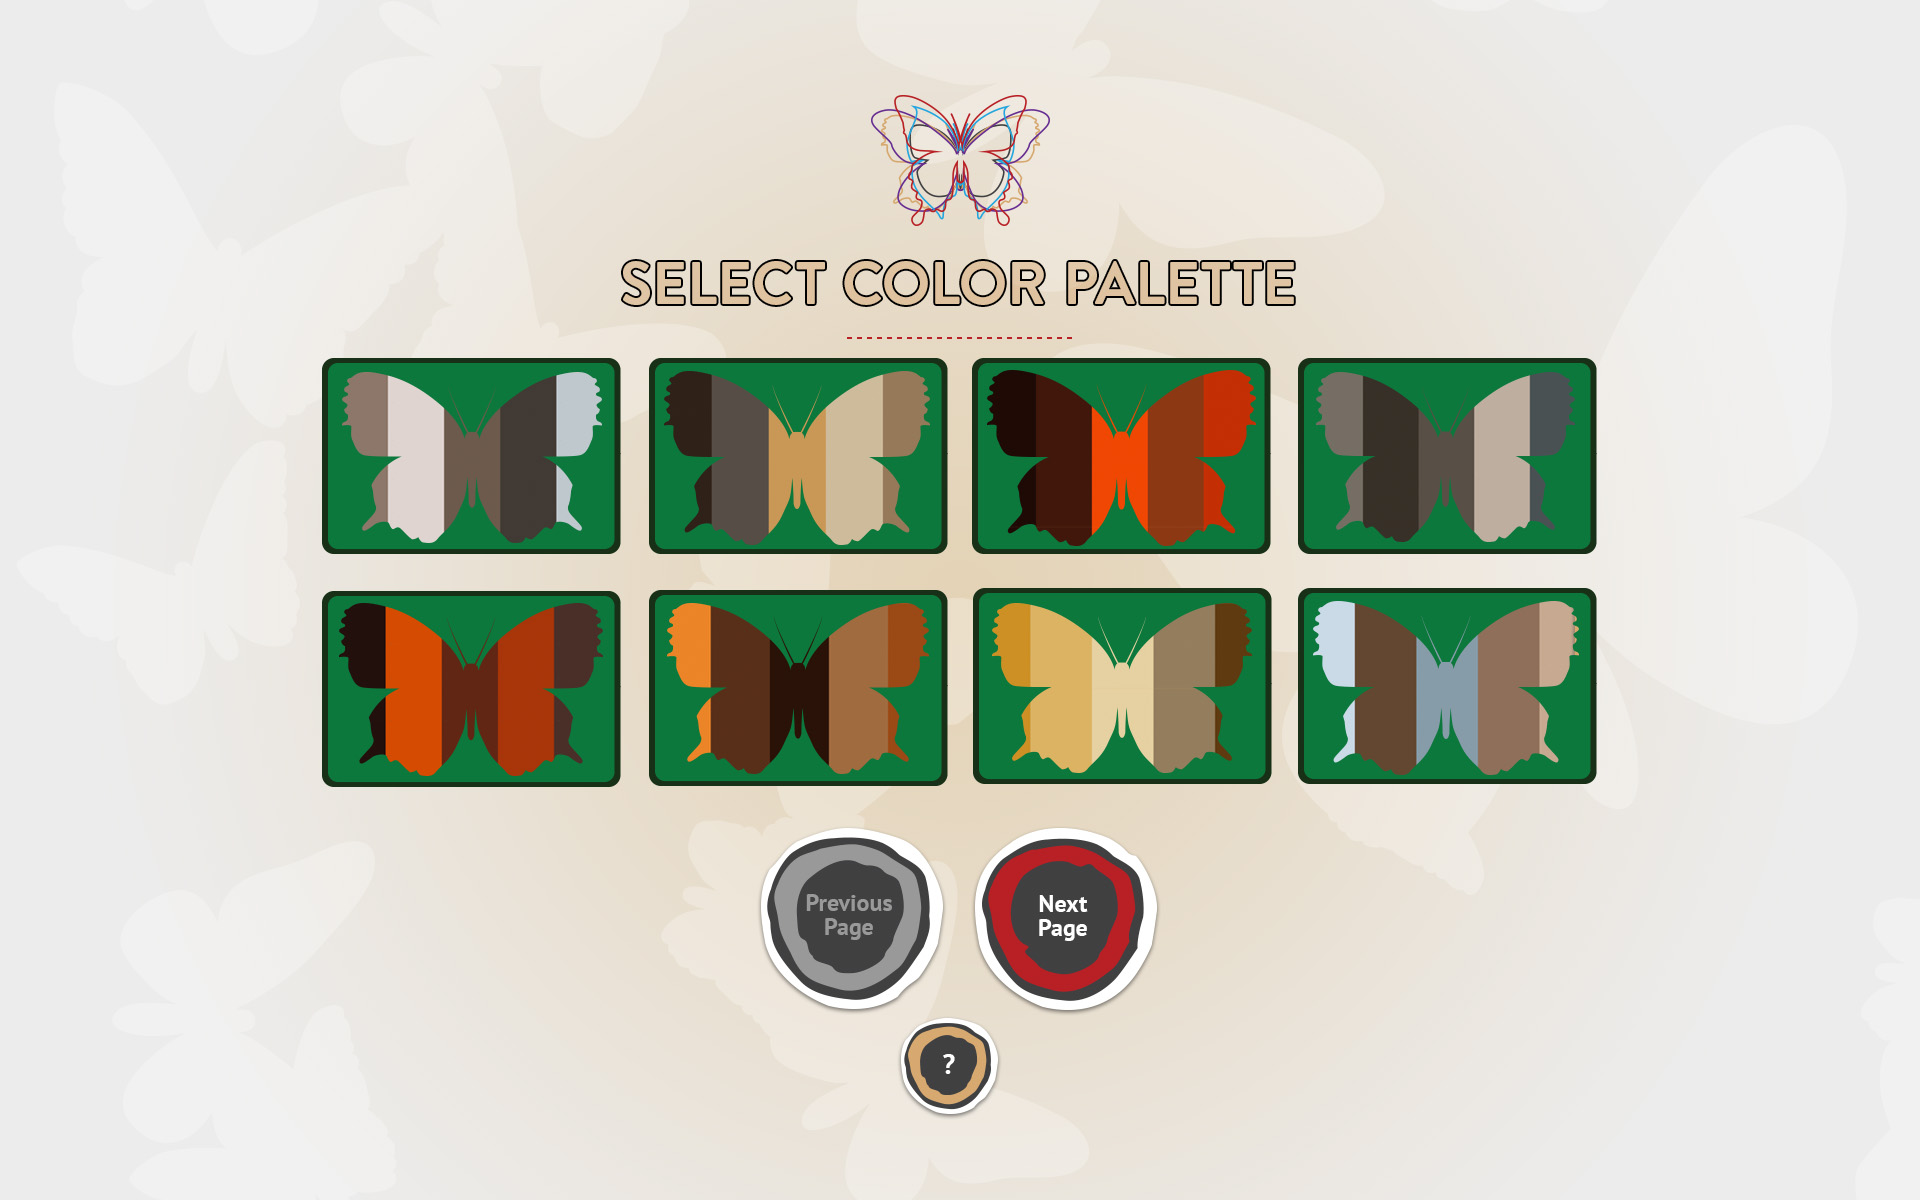
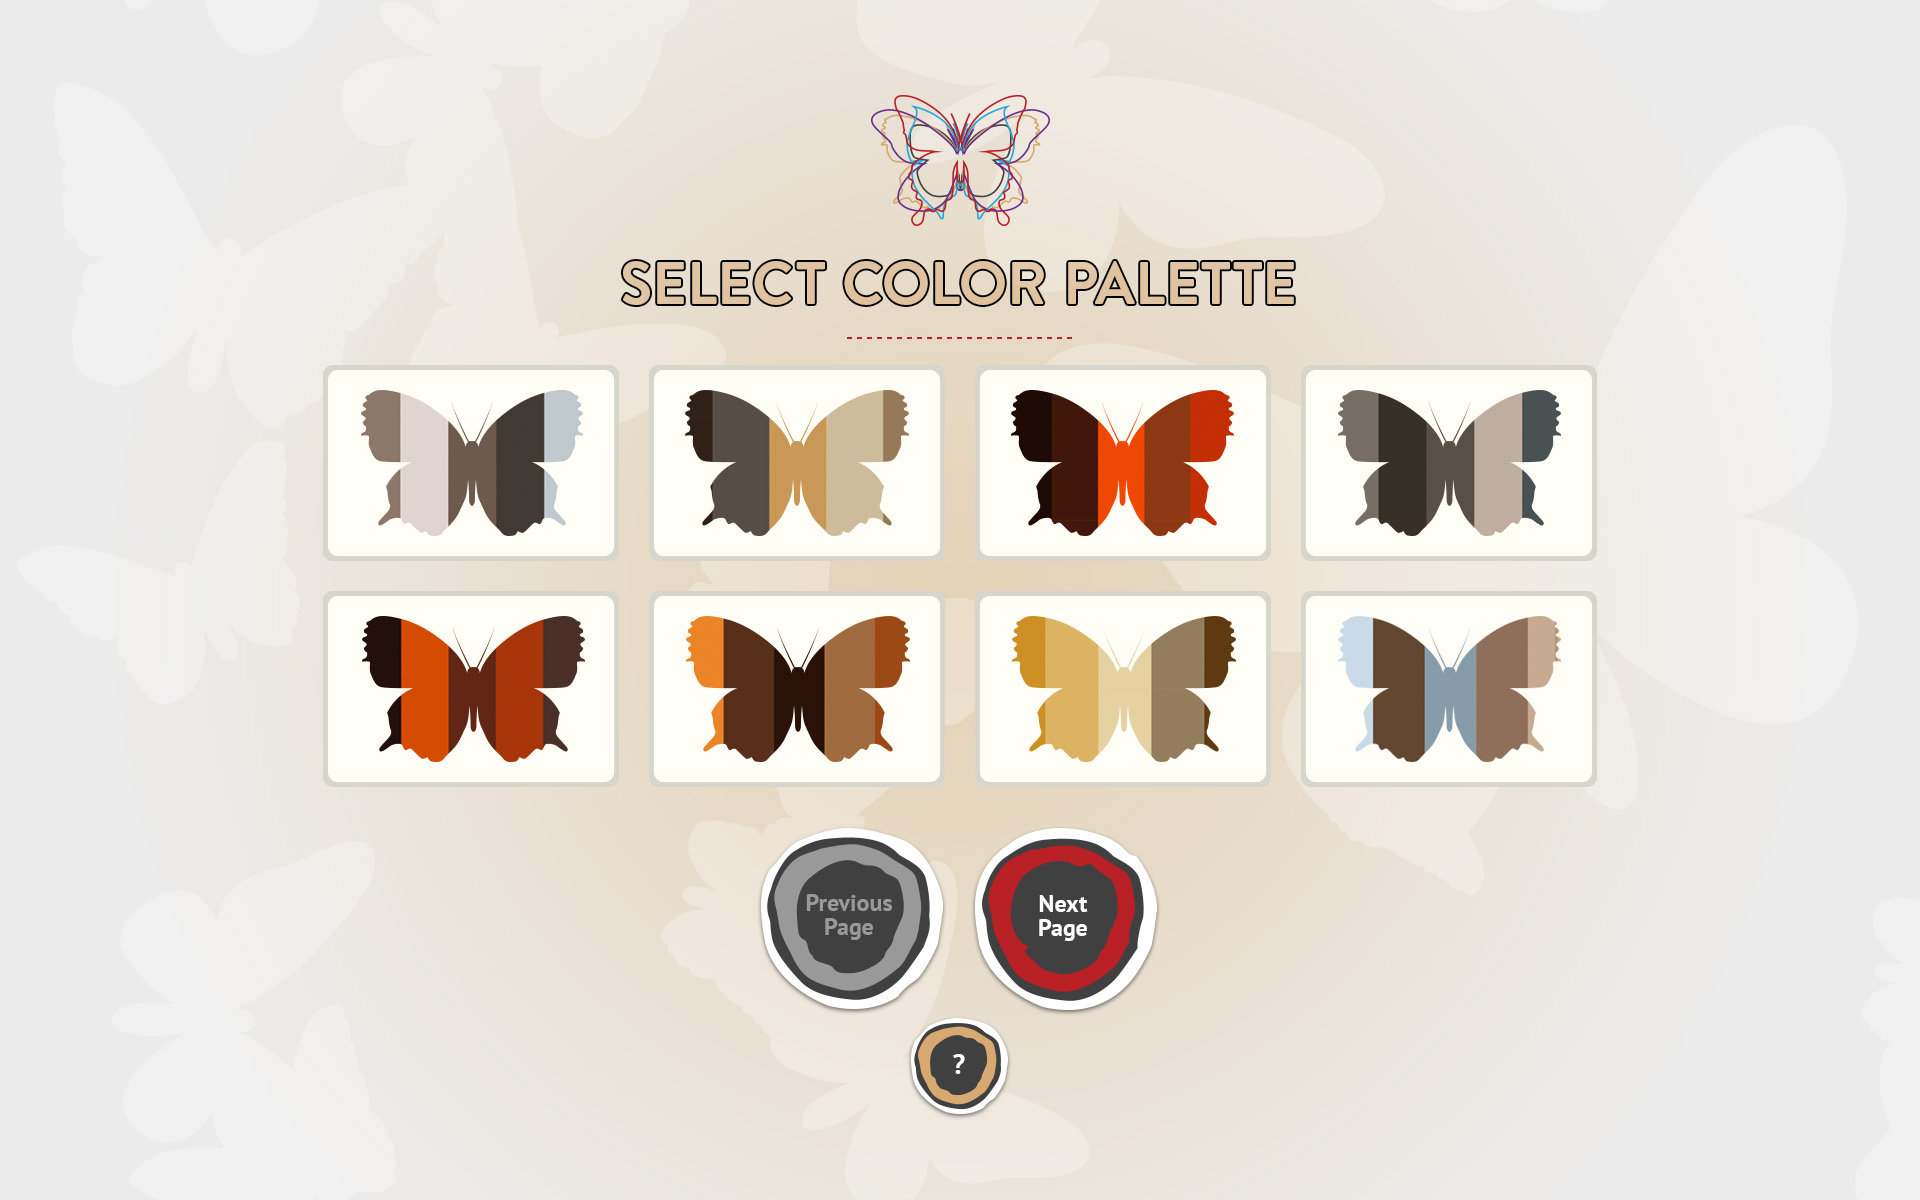
new palette cards in place, layout slightly adjusted

Changed region(s): [[0.1562, 0.2775, 0.8438, 0.6783], [0.4688, 0.8325, 0.5312, 0.925]]

diff --git a/css/main.css b/css/main.css
@@ -406,7 +406,7 @@ body {
 .palette-page {
   width: 1334px;
   height: 452px;
-  margin: auto;
+  margin: 27px auto 10px auto;
 }
 
 .palette-page a {
@@ -416,10 +416,15 @@ body {
   background: url(../img/card.svg);
   margin: 0 0 30px 30px;
   float: left;
+  text-align: center;
+}
+
+.palette-page a img {
+  width: ;
 }
 
 #palette-goal {
-  background: url(../img/goals/palette.jpg) center;
+  background: url(../img/goals/palettes_cards.jpg) center;
 }
 
 

diff --git a/inc/templates/palette.php b/inc/templates/palette.php
@@ -1,5 +1,5 @@
 <script type="text/template" id="palette-template">
-  <!-- <div id="palette-goal" class="goal"></div> -->
+  <div id="palette-goal" class="goal"></div>
   <div id="palette" class="page-container">
     <img src="img/diversifly_logo.svg" width="180" height="134" />
     <h1 class="banner">SELECT COLOR PALETTE</h1>
